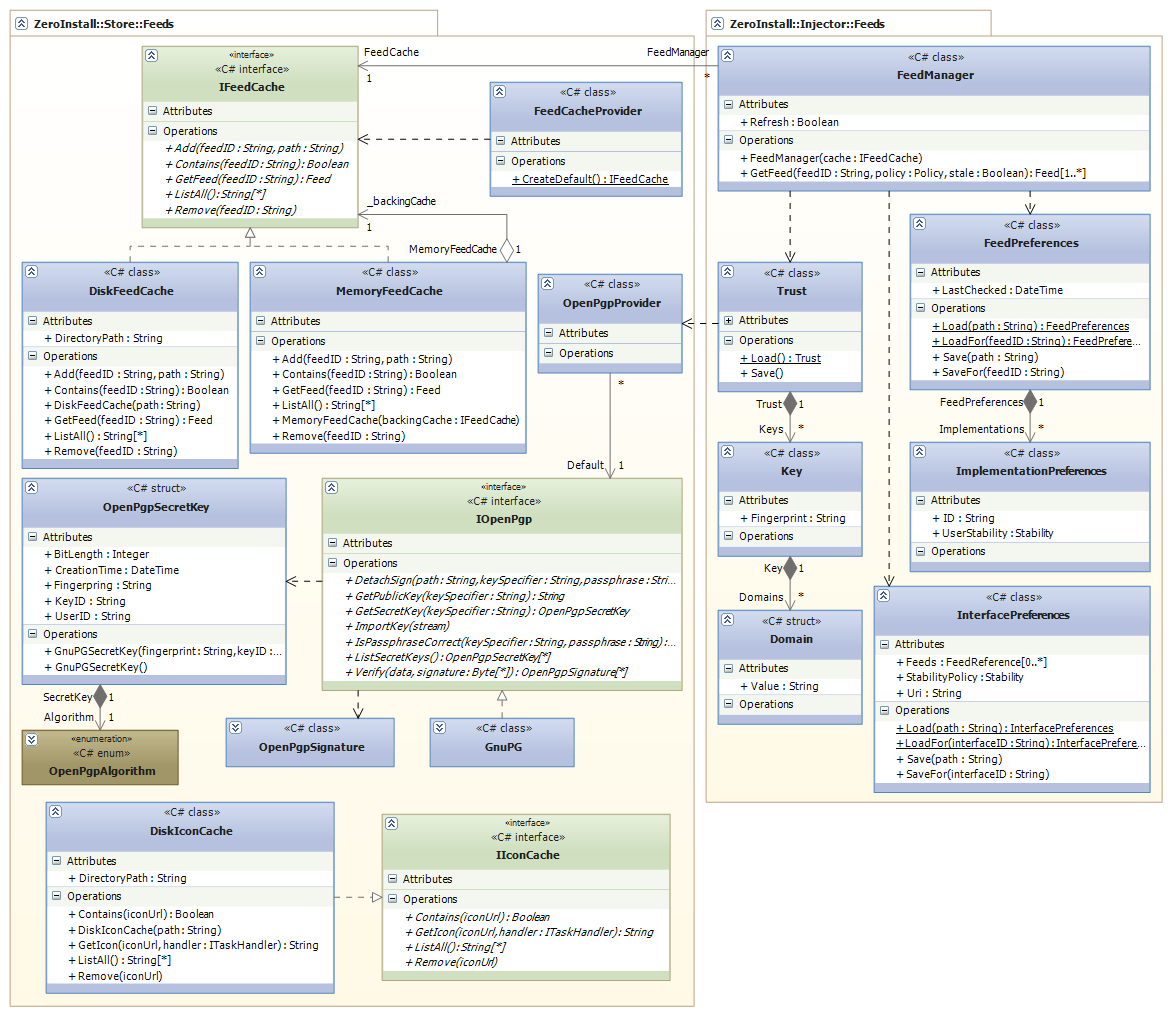
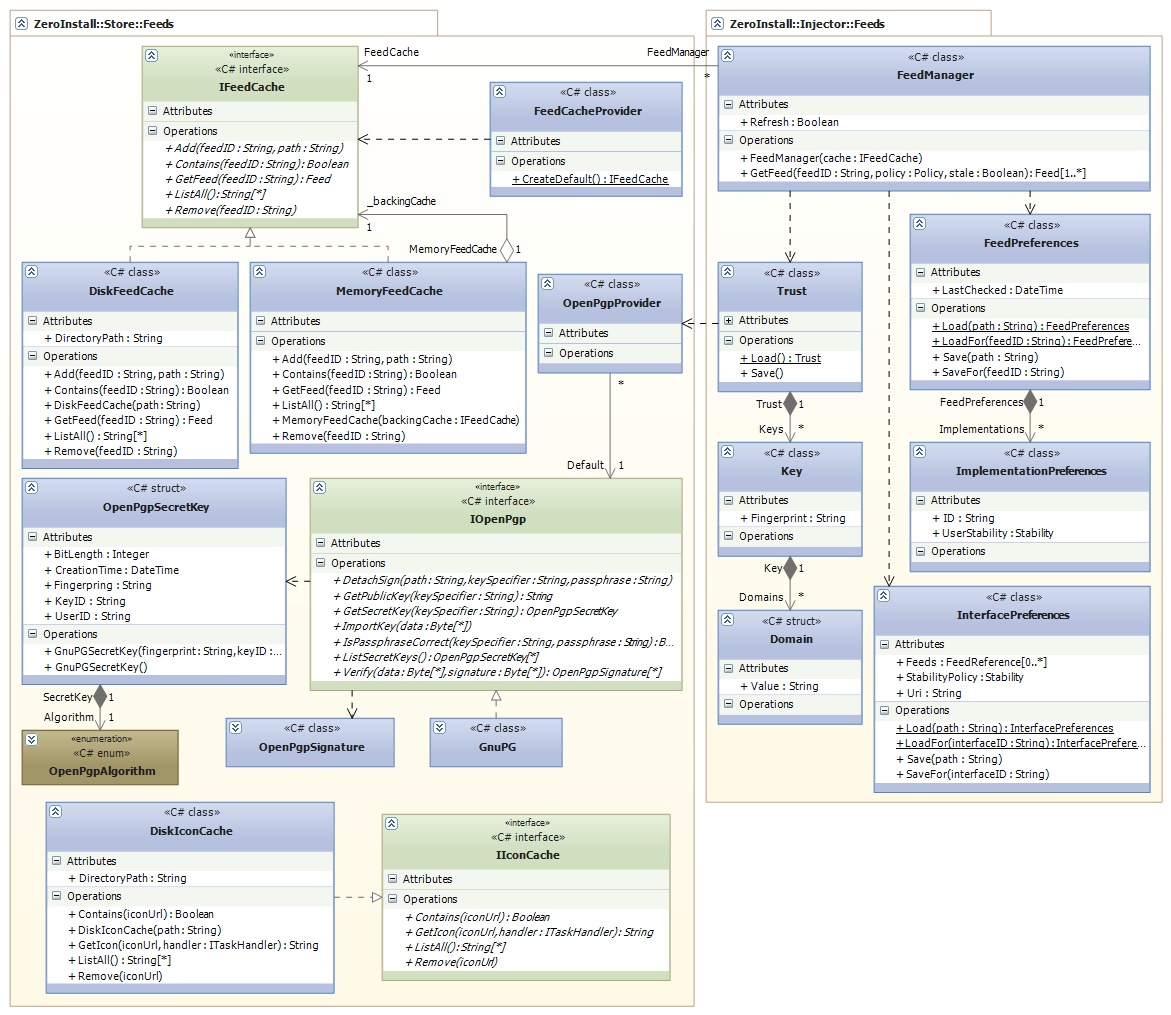
Changed IOpenPgp method signatures to use byte arrays instead of streams

Changed region(s): [[0.2459, 0.4581, 0.5841, 0.7025], [0.3997, 0.7025, 0.4919, 0.7635], [0.3997, 0.4581, 0.4611, 0.5192]]

diff --git a/src/Store/Feeds/GnuPG.cs b/src/Store/Feeds/GnuPG.cs
@@ -22,7 +22,6 @@ using System.IO;
 using System.Text.RegularExpressions;
 using Common.Cli;
 using Common.Storage;
-using Common.Streams;
 using Common.Utils;
 using ZeroInstall.Store.Properties;
 
@@ -70,11 +69,11 @@ namespace ZeroInstall.Store.Feeds
 
         #region Keys
         /// <inheritdoc/>
-        public void ImportKey(Stream stream)
+        public void ImportKey(byte[] data)
         {
             Execute("--batch --no-secmem-warning --quiet --import", writer =>
             {
-                StreamUtils.Copy(stream, writer.BaseStream);
+                writer.BaseStream.Write(data, 0, data.Length);
                 writer.Close();
             });
         }
@@ -131,12 +130,13 @@ namespace ZeroInstall.Store.Feeds
         {
             if (string.IsNullOrEmpty(passphrase)) return false;
 
-            string tempFilePath = FileUtils.GetTempFile("gpg");
-
-            try { DetachSign(tempFilePath, keySpecifier, passphrase); }
-            catch (WrongPassphraseException)
-            { return false; }
-            return true;
+            using (var tempFile = new TemporaryFile("gpg"))
+            {
+                try { DetachSign(tempFile.Path, keySpecifier, passphrase); }
+                catch (WrongPassphraseException)
+                { return false; }
+                return true;
+            }
         }
         #endregion
 
@@ -160,7 +160,7 @@ namespace ZeroInstall.Store.Feeds
 
         #region Verify
         /// <inheritdoc/>
-        public OpenPgpSignature[] Verify(Stream data, byte[] signature)
+        public IEnumerable<OpenPgpSignature> Verify(byte[] data, byte[] signature)
         {
             #region Sanity checks
             if (data == null) throw new ArgumentNullException("data");
@@ -174,13 +174,20 @@ namespace ZeroInstall.Store.Feeds
                 string arguments = "--batch --no-secmem-warning --status-fd 1 --verify " + StringUtils.EscapeArgument(signatureFile.Path) + " -";
                 result = Execute(arguments, writer =>
                 {
-                    StreamUtils.Copy(data, writer.BaseStream, 4096);
+                    writer.BaseStream.Write(data, 0, data.Length);
                     writer.Close();
                 });
             }
+            string[] lines = StringUtils.SplitMultilineText(result);
 
-            // ToDo: Parse result
-            throw new NotImplementedException();
+            // Each signature is represented by one line of encoded information
+            var signatures = new List<OpenPgpSignature>(lines.Length);
+            foreach (var line in lines)
+            {
+                if (line.StartsWith("[GNUPG:]")) signatures.Add(OpenPgpSignature.Parse(line));
+            }
+
+            return signatures;
         }
         #endregion
 

diff --git a/src/Store/Feeds/FeedUtils.cs b/src/Store/Feeds/FeedUtils.cs
@@ -20,7 +20,6 @@ using System.Collections.Generic;
 using System.IO;
 using Common;
 using Common.Cli;
-using Common.Utils;
 using ZeroInstall.Model;
 
 namespace ZeroInstall.Store.Feeds
@@ -66,19 +65,19 @@ namespace ZeroInstall.Store.Feeds
         /// Determines which signatures a feed is signed with.
         /// </summary>
         /// <param name="openPgp">The OpenPGP-compatible system used to validate the signatures.</param>
-        /// <param name="stream">The feed data containing an embedded signature.</param>
+        /// <param name="feedData">The feed data containing an embedded signature.</param>
         /// <returns>A list of signatures found, both valid and invalid.</returns>
         /// <exception cref="IOException">Thrown if the OpenPGP implementation could not be launched.</exception>
         /// <exception cref="SignatureException">Thrown if the signature data could not be handled.</exception>
-        public static OpenPgpSignature[] GetSignatures(IOpenPgp openPgp, Stream stream)
+        public static IEnumerable<OpenPgpSignature> GetSignatures(IOpenPgp openPgp, byte[] feedData)
         {
             #region Sanity checks
             if (openPgp == null) throw new ArgumentNullException("openPgp");
-            if (stream == null) throw new ArgumentNullException("stream");
+            if (feedData == null) throw new ArgumentNullException("feedData");
             #endregion
 
             // ToDo: Properly split stream into data and signature
-            Stream data = null;
+            byte[] data = null;
             byte[] signature = null;
 
             try { return openPgp.Verify(data, signature); }

diff --git a/src/Store/Feeds/IOpenPgp.cs b/src/Store/Feeds/IOpenPgp.cs
@@ -30,10 +30,10 @@ namespace ZeroInstall.Store.Feeds
         /// <summary>
         /// Imports a key into the keyring.
         /// </summary>
-        /// <param name="stream">The key data to be imported.</param>
+        /// <param name="data">The key data to be imported.</param>
         /// <exception cref="IOException">Thrown if the OpenPGP implementation could not be launched.</exception>
         /// <exception cref="UnhandledErrorsException">Thrown if the OpenPGP implementation reported a problem.</exception>
-        void ImportKey(Stream stream);
+        void ImportKey(byte[] data);
 
         /// <summary>
         /// Returns the public key for specific keypair.
@@ -90,6 +90,6 @@ namespace ZeroInstall.Store.Feeds
         /// <returns>A list of signatures found, both valid and invalid.</returns>
         /// <exception cref="IOException">Thrown if the OpenPGP implementation could not be launched.</exception>
         /// <exception cref="UnhandledErrorsException">Thrown if the OpenPGP implementation reported a problem.</exception>
-        OpenPgpSignature[] Verify(Stream data, byte[] signature);
+        IEnumerable<OpenPgpSignature> Verify(byte[] data, byte[] signature);
     }
 }

diff --git a/src/Publish/FeedUtils.cs b/src/Publish/FeedUtils.cs
@@ -153,10 +153,7 @@ namespace ZeroInstall.Publish
         {
             var openPgp = OpenPgpProvider.Default;
 
-            OpenPgpSignature[] signatures;
-            using (var stream = File.OpenRead(path))
-                signatures = Store.Feeds.FeedUtils.GetSignatures(openPgp, stream);
-
+            var signatures = Store.Feeds.FeedUtils.GetSignatures(openPgp, File.ReadAllBytes(path));
             var secretKey = new OpenPgpSecretKey();
             try
             {

diff --git a/src/Store/Feeds/OpenPgpSignature.cs b/src/Store/Feeds/OpenPgpSignature.cs
@@ -23,7 +23,13 @@ namespace ZeroInstall.Store.Feeds
     /// Represents a signature checked by an <see cref="IOpenPgp"/> implementation.
     /// </summary>
     public abstract class OpenPgpSignature
-    {}
+    {
+        public static OpenPgpSignature Parse(string line)
+        {
+            string[] parts = line.Split(' ');
+            throw new NotImplementedException();
+        }
+    }
 
     /// <summary>
     /// Represents a valid signature.
